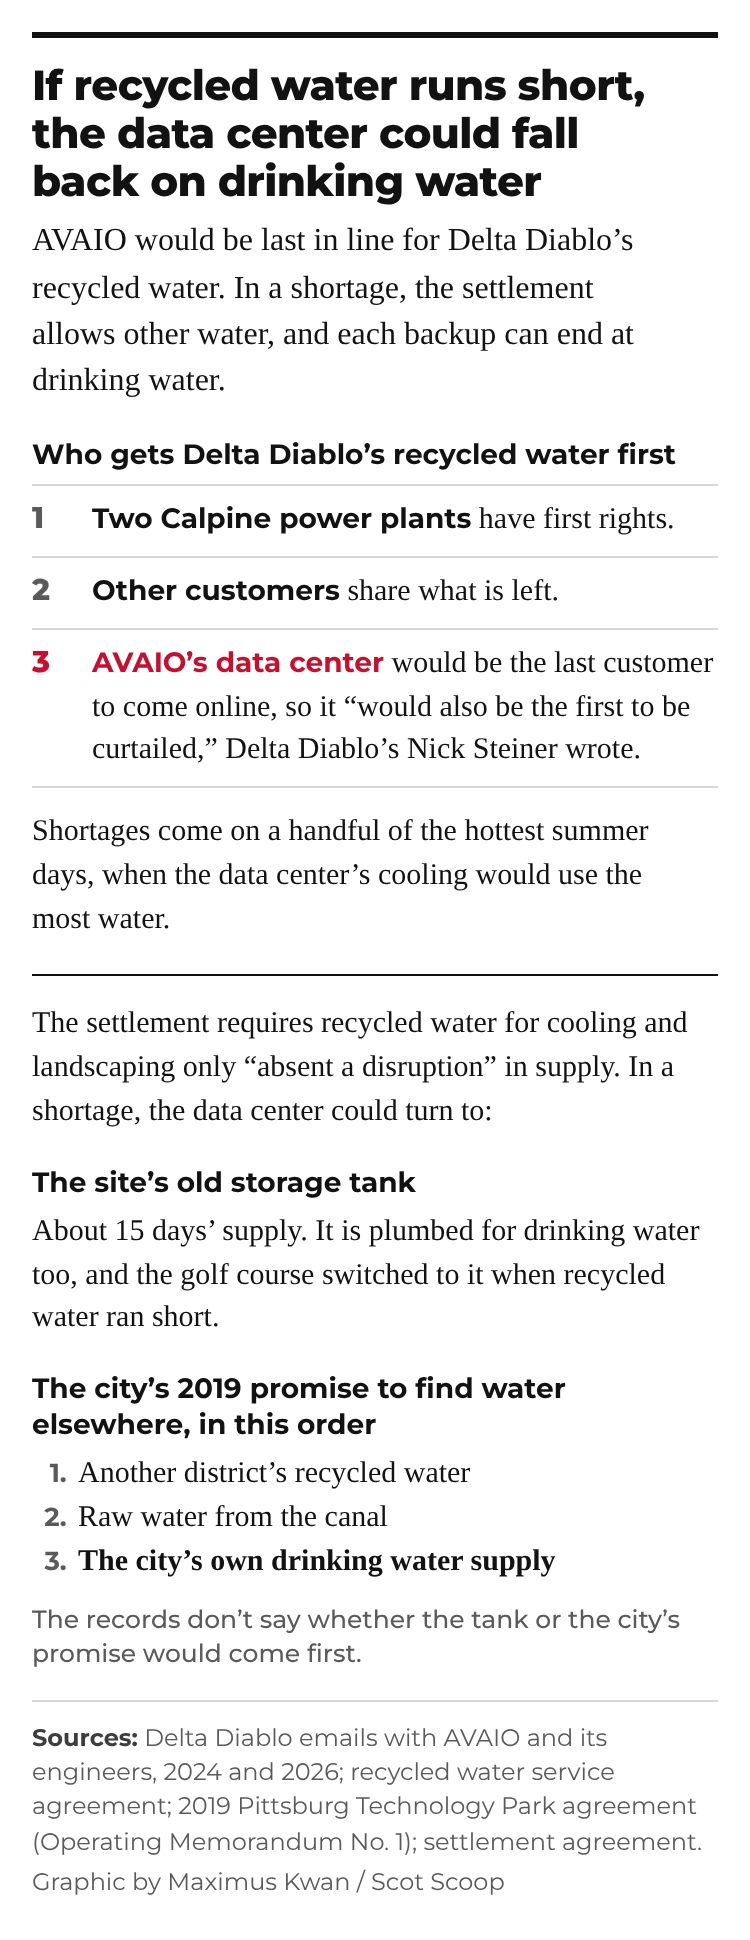
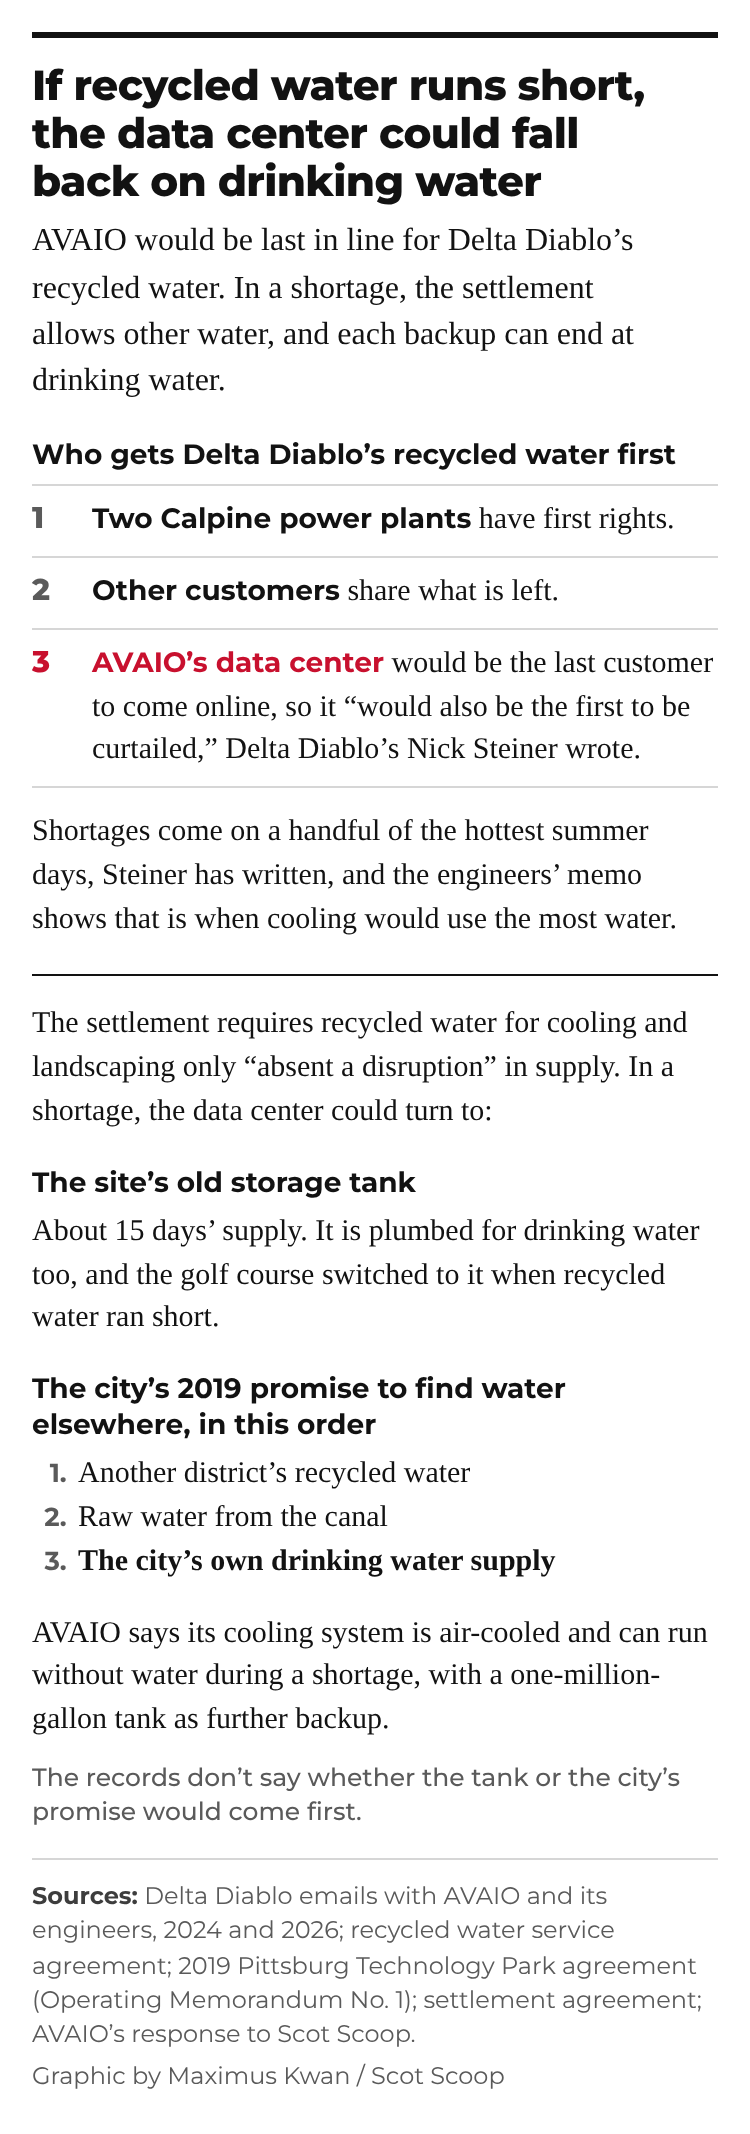
Graphics: apply the story-fix corrections
Deal timeline: split the Perkins entry (petition on June 9), describe the
Feb. 17 notice of determination, call the FPPC the ethics commission
outside the quote, 4-0 with Adams recused, clarify the nine-days dek, add
the 25-acre return to Dec. 15. Committee redline: name Gale's replies.
Water use: 'about' 10 to 15 times; add AVAIO's response to the note.
Recycled-water fallback: add AVAIO's air-cooling answer and attribute the
shortage line. Approvals ahead: 4-0 with the mayor recused, backup
generators with no application as of Oct. 13, Gale's instruction to the
zoning administrator. PNGs regenerated.

Claude-Session: https://claude.ai/code/session_016Gic3hMBnAoNocyJTjjGFA

Changed region(s): [[0.0307, 0.0, 0.9507, 0.9897], [0.8893, 0.7423, 0.92, 0.7732]]

diff --git a/graphics/approvals-ahead/index.html b/graphics/approvals-ahead/index.html
@@ -20,7 +20,7 @@
     <h3 class="ph-hed" id="hed">Two public votes remain, one for each part of the site</h3>
     <p class="ph-dek">Phase 1 still needs a public vote and two agencies’ approval. Phases 2 and 3, paused by an Oct. 26 moratorium, would end with one city official’s sign-off.</p>
     <div class="ph-body"></div>
-    <p class="ph-sr-only ph-desc" id="desc">Two tracks of the approvals still ahead, with each approval marked by whether it is decided by a public vote. Phase 1, on 22 acres north of the canal, was approved in December 2025 and is exempt from the moratorium. It still needs three approvals, in any order: a public vote of the City Council, sitting as the Pittsburg Power Company board, on four agreements including the Energy Services Agreement; approval of the water system by Delta Diablo and the state, without a public vote; and permits for its 37 diesel generators from the Bay Area Air Quality Management District’s executive officer, also without a public vote. Phases 2 and 3, on 54 acres south of the canal, are under a 45-day moratorium adopted Oct. 26, which expires Dec. 10 unless extended. A project there would then need, in order: the consent of the Contra Costa Water District’s elected board to an easement across the canal, by public vote; federal environmental review, which the water district says the easement requires; the easement itself, which only the U.S. Bureau of Reclamation can grant; and approval of the buildings by the zoning administrator, a single city official, with no public vote. Under the specific plan, projects that fit it “shall not require additional environmental review” beyond effects peculiar to them. Gale says proposals would go to the Planning Commission and council instead, but the plan hasn’t been amended to require that.</p>
+    <p class="ph-sr-only ph-desc" id="desc">Two tracks of the approvals still ahead, with each approval marked by whether it is decided by a public vote. Phase 1, on 22 acres north of the canal, was approved in December 2025 and is exempt from the moratorium. It still needs three approvals, in any order: a public vote of the City Council, sitting as the Pittsburg Power Company board, on four agreements including the Energy Services Agreement; approval of the water system by Delta Diablo and the state, without a public vote; and permits for its 37 backup diesel generators from the Bay Area Air Quality Management District’s executive officer, also without a public vote; the air district said it had no application as of Oct. 13. Phases 2 and 3, on 54 acres south of the canal, are under a 45-day moratorium adopted 4-0 on Oct. 26, with the mayor recused, which expires Dec. 10 unless extended. A project there would then need, in order: the consent of the Contra Costa Water District’s elected board to an easement across the canal, by public vote; federal environmental review, which the water district says the easement requires; the easement itself, which only the U.S. Bureau of Reclamation can grant; and approval of the buildings by the zoning administrator, a single city official, with no public vote. Under the specific plan, projects that fit it “shall not require additional environmental review” beyond effects peculiar to them. Gale says proposals would go to the Planning Commission and council instead, but the plan hasn’t been amended to require that. He says he has told the zoning administrator not to approve any phase.</p>
     <figcaption class="ph-foot"><p class="ph-note"><b>Note:</b> The Center for Biological Diversity, which agreed not to oppose Phase 1, can still oppose Phases 2 and 3.</p><p class="ph-source"><b>Sources:</b> City Manager Darin Gale; Delta Diablo; Bay Area Air Quality Management District; Contra Costa Water District letters and emails; Bureau of Reclamation emails; City of Pittsburg urgency ordinance, Oct. 26, 2026; Pittsburg Technology Park Specific Plan environmental report.</p><p class="ph-credit">Graphic by Maximus Kwan / Scot Scoop</p></figcaption>
   </figure>
   <script type="module">import('../../shared/kit.js?v=' + window.PH_V).then((kit) => kit.standalone());</script>

diff --git a/graphics/water-priority/index.html b/graphics/water-priority/index.html
@@ -20,8 +20,8 @@
     <h3 class="ph-hed" id="hed">If recycled water runs short, the data center could fall back on drinking water</h3>
     <p class="ph-dek">AVAIO would be last in line for Delta Diablo’s recycled water. In a shortage, the settlement allows other water, and each backup can end at drinking water.</p>
     <div class="ph-body"></div>
-    <p class="ph-sr-only ph-desc" id="desc">Who gets Delta Diablo’s recycled water first, and what the data center could use instead. First, two Calpine power plants have first rights. Second, other customers share what is left. Third, AVAIO’s data center would be the last customer to come online, so it “would also be the first to be curtailed,” Delta Diablo’s Nick Steiner wrote. Shortages come on a handful of the hottest summer days, when the data center’s cooling would use the most water. The settlement requires recycled water only “absent a disruption” in supply. In a shortage, the data center could turn to the site’s old storage tank, about 15 days’ supply and plumbed for drinking water too, or to the city’s 2019 promise to find water elsewhere, in this order: another district’s recycled water, raw water from the canal, then the city’s own drinking water supply. The records don’t say which would come first.</p>
-    <figcaption class="ph-foot"><p class="ph-source"><b>Sources:</b> Delta Diablo emails with AVAIO and its engineers, 2024 and 2026; recycled water service agreement; 2019 Pittsburg Technology Park agreement (Operating Memorandum No. 1); settlement agreement.</p><p class="ph-credit">Graphic by Maximus Kwan / Scot Scoop</p></figcaption>
+    <p class="ph-sr-only ph-desc" id="desc">Who gets Delta Diablo’s recycled water first, and what the data center could use instead. First, two Calpine power plants have first rights. Second, other customers share what is left. Third, AVAIO’s data center would be the last customer to come online, so it “would also be the first to be curtailed,” Delta Diablo’s Nick Steiner wrote. Shortages come on a handful of the hottest summer days, Steiner has written, and the engineers’ memo shows that is when cooling would use the most water. The settlement requires recycled water only “absent a disruption” in supply. In a shortage, the data center could turn to the site’s old storage tank, about 15 days’ supply and plumbed for drinking water too, or to the city’s 2019 promise to find water elsewhere, in this order: another district’s recycled water, raw water from the canal, then the city’s own drinking water supply. AVAIO says its cooling system is air-cooled and can run without water during a shortage, with a one-million-gallon tank as further backup. The records don’t say which would come first.</p>
+    <figcaption class="ph-foot"><p class="ph-source"><b>Sources:</b> Delta Diablo emails with AVAIO and its engineers, 2024 and 2026; recycled water service agreement; 2019 Pittsburg Technology Park agreement (Operating Memorandum No. 1); settlement agreement; AVAIO’s response to Scot Scoop.</p><p class="ph-credit">Graphic by Maximus Kwan / Scot Scoop</p></figcaption>
   </figure>
   <script type="module">import('../../shared/kit.js?v=' + window.PH_V).then((kit) => kit.standalone());</script>
 </body>

diff --git a/graphics/water-use/index.html b/graphics/water-use/index.html
@@ -18,11 +18,11 @@
 <body class="ph-page">
   <!-- Section: "First to be curtailed". Numbers: data/water-use.csv -->
   <figure class="ph-root" data-graphic="water-use" aria-labelledby="hed" aria-describedby="desc">
-    <h3 class="ph-hed" id="hed">Engineers’ estimate: 10 to 15 times the city manager’s</h3>
+    <h3 class="ph-hed" id="hed">Engineers’ estimate: about 10 to 15 times the city manager’s</h3>
     <p class="ph-dek">Estimates of Phase 1’s daily water use range from 4,000 gallons to about 58,000. A 2019 agreement anticipated 5 million for the whole technology park.</p>
     <div class="ph-body" aria-hidden="true"></div>
     <p class="ph-sr-only ph-desc" id="desc">Bar charts of daily water use, shown at three scales. For Phase 1, the city manager says AVAIO expects to use 4,000 to 6,000 gallons a day and that the water would mostly go to landscaping. AVAIO’s engineers told Delta Diablo, the wastewater agency, about 58,000 gallons a day, and their February 2024 memo put 70% of that toward cooling the data halls. The golf course used roughly 270,000 gallons a day on average when it was green. A 2019 city agreement anticipated the whole technology park, all phases, would ultimately require about 5 million gallons a day.</p>
-    <figcaption class="ph-foot"><p class="ph-note"><b>Note:</b> The golf course used about 300 acre-feet a year, shown here in gallons a day. The 2019 figure is what the agreement said the project would “ultimately require” across the whole park; the other project estimates are for Phase 1.</p><p class="ph-source"><b>Sources:</b> City Manager Darin Gale, interview with Scot Scoop; Kimley-Horn water demand memo to Delta Diablo, February 2024; city’s 2024 water supply assessment; 2019 Pittsburg Technology Park agreement (Operating Memorandum No. 1).</p><p class="ph-credit">Graphic by Maximus Kwan / Scot Scoop</p></figcaption>
+    <figcaption class="ph-foot"><p class="ph-note"><b>Note:</b> The golf course used about 300 acre-feet a year, shown here in gallons a day. The 2019 figure is what the agreement said the project would “ultimately require” across the whole park; the other project estimates are for Phase 1. AVAIO says its design “may use substantially less.”</p><p class="ph-source"><b>Sources:</b> City Manager Darin Gale, interview with Scot Scoop; Kimley-Horn water demand memo to Delta Diablo, February 2024; city’s 2024 water supply assessment; 2019 Pittsburg Technology Park agreement (Operating Memorandum No. 1); AVAIO’s response to Scot Scoop.</p><p class="ph-credit">Graphic by Maximus Kwan / Scot Scoop</p></figcaption>
   </figure>
   <script type="module">import('../../shared/kit.js?v=' + window.PH_V).then((kit) => kit.standalone());</script>
 </body>

diff --git a/graphics/committee-redline/index.html b/graphics/committee-redline/index.html
@@ -18,8 +18,8 @@
   <!-- Section: "A committee by design". Text: data/committee-redline.csv -->
   <figure class="ph-root" data-graphic="committee-redline" aria-labelledby="hed" aria-describedby="desc">
     <h3 class="ph-hed" id="hed">Rewritten to advise the city manager, not the council</h3>
-    <p class="ph-dek">Hours before the Aug. 3 meeting, a city consultant’s draft had the advisory committee advising the City Council. Replies typed into her email changed that.</p>
-    <p class="ph-sr-only ph-desc" id="desc">The draft described the committee’s purpose as advising the City Council and its length of service as 4 months. Replies typed into the email said the members would advise the city manager, so the meetings would not be Brown Act meetings, and that 4 months could look like an attempt to finish before the new council. The city’s news release said the committee would “review and discuss research and advise the City Manager on matters related to data center policy development.” For its term, Sovinec suggested “over the next several months,” Gale wrote “That sounds good,” and the phrase went into the release.</p>
+    <p class="ph-dek">Hours before the Aug. 3 meeting, a city consultant’s draft had the advisory committee advising the City Council. Gale’s replies, typed into her email, changed that.</p>
+    <p class="ph-sr-only ph-desc" id="desc">The draft described the committee’s purpose as advising the City Council and its length of service as 4 months. Gale’s replies, typed into the email, said the members would advise the city manager, so the meetings would not be Brown Act meetings, and that 4 months could look like an attempt to finish before the new council. The city’s news release said the committee would “review and discuss research and advise the City Manager on matters related to data center policy development.” For its term, Sovinec suggested “over the next several months,” Gale wrote “That sounds good,” and the phrase went into the release.</p>
     <div class="ph-body"></div>
     <figcaption class="ph-foot"><p class="ph-note"><b>Note:</b> Replies are quoted as typed. Because the committee advises the city manager, the Brown Act, California’s open-meetings law, does not apply, Gale said.</p><p class="ph-source"><b>Sources:</b> City of Pittsburg emails, Aug. 3, 2026; city news release.</p><p class="ph-credit">Graphic by Maximus Kwan / Scot Scoop</p></figcaption>
   </figure>

diff --git a/embed/sno/committee-redline.html b/embed/sno/committee-redline.html
@@ -4,7 +4,7 @@
   <img src="https://maximuskwan.github.io/pittsburg-data-center/graphics/committee-redline/png/committee-redline-phone.png"
        srcset="https://maximuskwan.github.io/pittsburg-data-center/graphics/committee-redline/png/committee-redline-phone.png 750w, https://maximuskwan.github.io/pittsburg-data-center/graphics/committee-redline/png/committee-redline-desktop.png 1504w"
        sizes="(max-width: 600px) 100vw, 752px" loading="lazy" style="width:100%;height:auto"
-       alt="The draft purpose said the committee would advise the City Council. Replies typed into the email said members would advise the city manager, so the meetings would not be Brown Act meetings, and the city’s news release said the committee would advise the City Manager. The draft’s 4 months became “over the next several months.”">
+       alt="The draft purpose said the committee would advise the City Council. Gale’s replies, typed into the email, said members would advise the city manager, so the meetings would not be Brown Act meetings, and the city’s news release said the committee would advise the City Manager. The draft’s 4 months became “over the next several months.”">
 </div>
-<p class="ph-caption">Hours before the Aug. 3 meeting, a draft from the city’s public-affairs firm said the advisory committee would advise the City Council. Replies typed into the email rewrote it: Members would advise the city manager, “to ensure these are not brown act meetings.”</p>
+<p class="ph-caption">Hours before the Aug. 3 meeting, a draft from the city’s public-affairs firm said the advisory committee would advise the City Council. Gale’s replies, typed into the email, rewrote it: Members would advise the city manager, “to ensure these are not brown act meetings.”</p>
 <script type="module">import(window.PH_MOUNT_URL ||= 'https://maximuskwan.github.io/pittsburg-data-center/shared/mount.js?v=' + Date.now().toString(36));</script>

diff --git a/graphics/approvals-ahead/graphic.js b/graphics/approvals-ahead/graphic.js
@@ -27,7 +27,8 @@ export default async function draw(ctx) {
   const label = (r) => h('div', { class: 'ap-label' },
     h('p', { class: 'ap-title' }, sr(r), r.title),
     h('p', { class: 'ap-who', text: r.who }),
-    r.detail ? h('p', { class: 'ap-detail', text: r.detail }) : null);
+    r.detail ? h('p', { class: 'ap-detail', text: r.detail }) : null,
+    r.status ? h('p', { class: 'ap-detail', text: r.status }) : null);
 
   // Phase 1: parallel. Three nodes stacked, joined by a bracket, then the end.
   const p1 = rows.filter((r) => r.lane === 'phase1');
@@ -63,7 +64,7 @@ export default async function draw(ctx) {
         h('div', { class: 'ap-label' },
           h('p', { class: 'ap-title', text: 'Moratorium' }),
           h('p', { class: 'ap-who' }, 'Oct.\u00a026 to ', tk(m, 'Dec.\u00a010')),
-          h('p', { class: 'ap-detail' }, `${m.title.replace(/ on new data centers$/, '')}, adopted unanimously. `, tk(m, 'Ends Dec.\u00a010 unless extended.')))),
+          h('p', { class: 'ap-detail' }, `${m.title.replace(/ on new data centers$/, '')}, adopted 4-0, with the mayor recused. `, tk(m, 'Ends Dec.\u00a010 unless extended.')))),
       ...steps.map(item),
       h('li', { class: 'ap-endstep' }, h('p', { class: 'ap-end', text: 'Construction' }))));
 

diff --git a/graphics/deal-timeline/graphic.js b/graphics/deal-timeline/graphic.js
@@ -8,7 +8,7 @@
 const NINE = { first: '2025-12-08', last: '2025-12-16' };
 const SHORT = { // labels for the day-by-day strip
   '2025-12-08': 'Generators exempted',
-  '2025-12-10': 'FPPC pressed',
+  '2025-12-10': 'Ethics advice pressed',
   '2025-12-11': 'Design approved, suit paused',
   '2025-12-15': 'Loan rewritten',
   '2025-12-16': 'Settlement filed',
@@ -55,7 +55,7 @@ export default async function draw(ctx) {
     if (nine.length) {
       section.append(h('div', { class: 'tl-nine' },
         h('p', { class: 'tl-nine__title', text: 'Nine days in December' }),
-        h('p', { class: 'tl-nine__dek', text: 'The generator exemption, the design approval, the loan rewrite and the lawsuit settlement all came within nine days, the month Gale took over as city manager.' }),
+        h('p', { class: 'tl-nine__dek', text: 'The generator exemption, the design approval, the loan rewrite and the lawsuit settlement all came within nine days in December 2025, the month Gale took over as city manager.' }),
         strip,
         h('ol', { class: 'tl-list' }, nine.map(entry))));
     }

diff --git a/graphics/committee-redline/graphic.js b/graphics/committee-redline/graphic.js
@@ -24,7 +24,7 @@ export default async function draw(ctx) {
       h('p', { class: 'ph-label rl-label', text: name }),
       h('div', { class: 'rl-cols' },
         col('The draft', h('p', { class: 'rl-words rl-words--draft' }, words(draft, quote(draft)))),
-        col('Reply typed into the email', h('p', { class: 'rl-words' }, words(reply, quote(reply)))),
+        col('Gale’s reply, typed into the email', h('p', { class: 'rl-words' }, words(reply, quote(reply)))),
         col('What it became', ...became)));
   };
 

diff --git a/graphics/water-priority/graphic.js b/graphics/water-priority/graphic.js
@@ -38,5 +38,6 @@ export default async function draw(ctx) {
       h('div', { class: 'wp-col' },
         h('p', { class: 'wp-head', text: promise.label }),
         h('ol', { class: 'wp-chain' }, ['fallback-1', 'fallback-2', 'fallback-3'].map((id) => h('li', { text: row(id).label }))))),
+    h('p', { class: 'wp-text wp-reply', text: row('avaio-reply').detail }),
     h('p', { class: 'ph-caveat', text: 'The records don’t say whether the tank or the city’s promise would come first.' })));
 }

diff --git a/graphics/water-priority/graphic.css b/graphics/water-priority/graphic.css
@@ -3,6 +3,7 @@
 .wp-head { margin: 0 0 6px; font: 700 14px/1.3 var(--sans); color: var(--ink); }
 .wp-text { margin: 0; font: var(--type-body); color: var(--ink); text-wrap: pretty; }
 .wp-text--lead { margin-bottom: 14px; }
+.wp-reply { margin-top: 14px; }
 
 .wp-rank { list-style: none; margin: 0 0 12px; padding: 0; }
 .wp-rank__row { display: grid; grid-template-columns: 22px 1fr; gap: 8px; align-items: baseline; padding: 6px 0; border-bottom: 1px solid var(--gray-light); }
